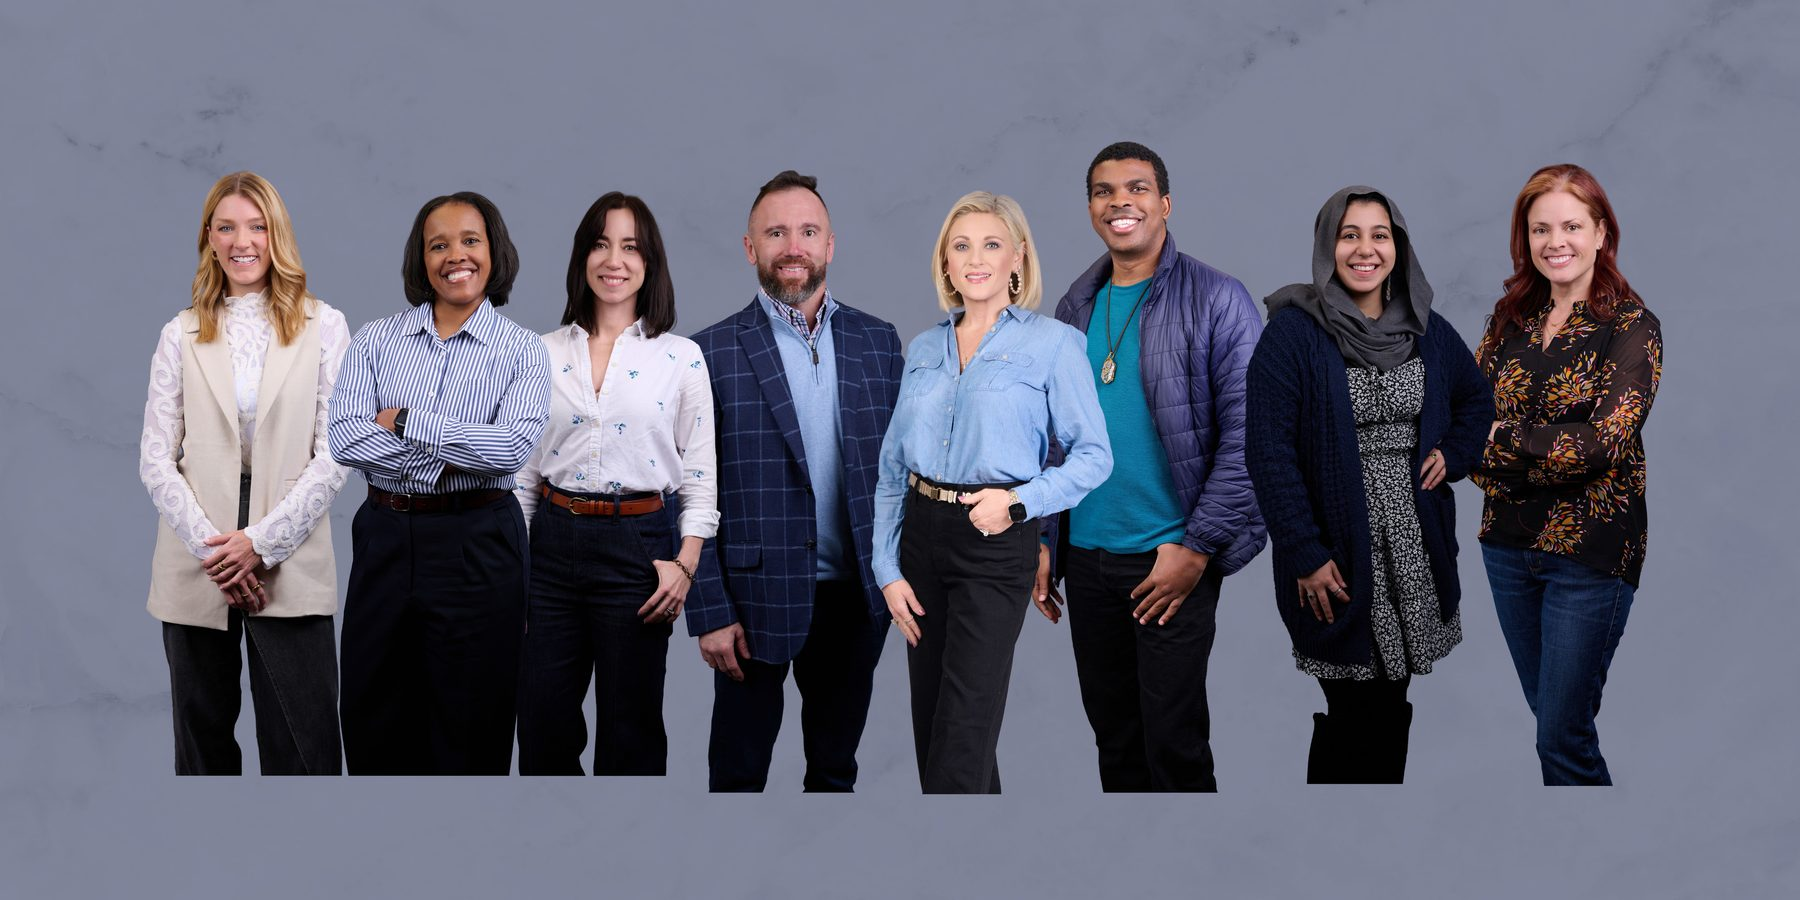
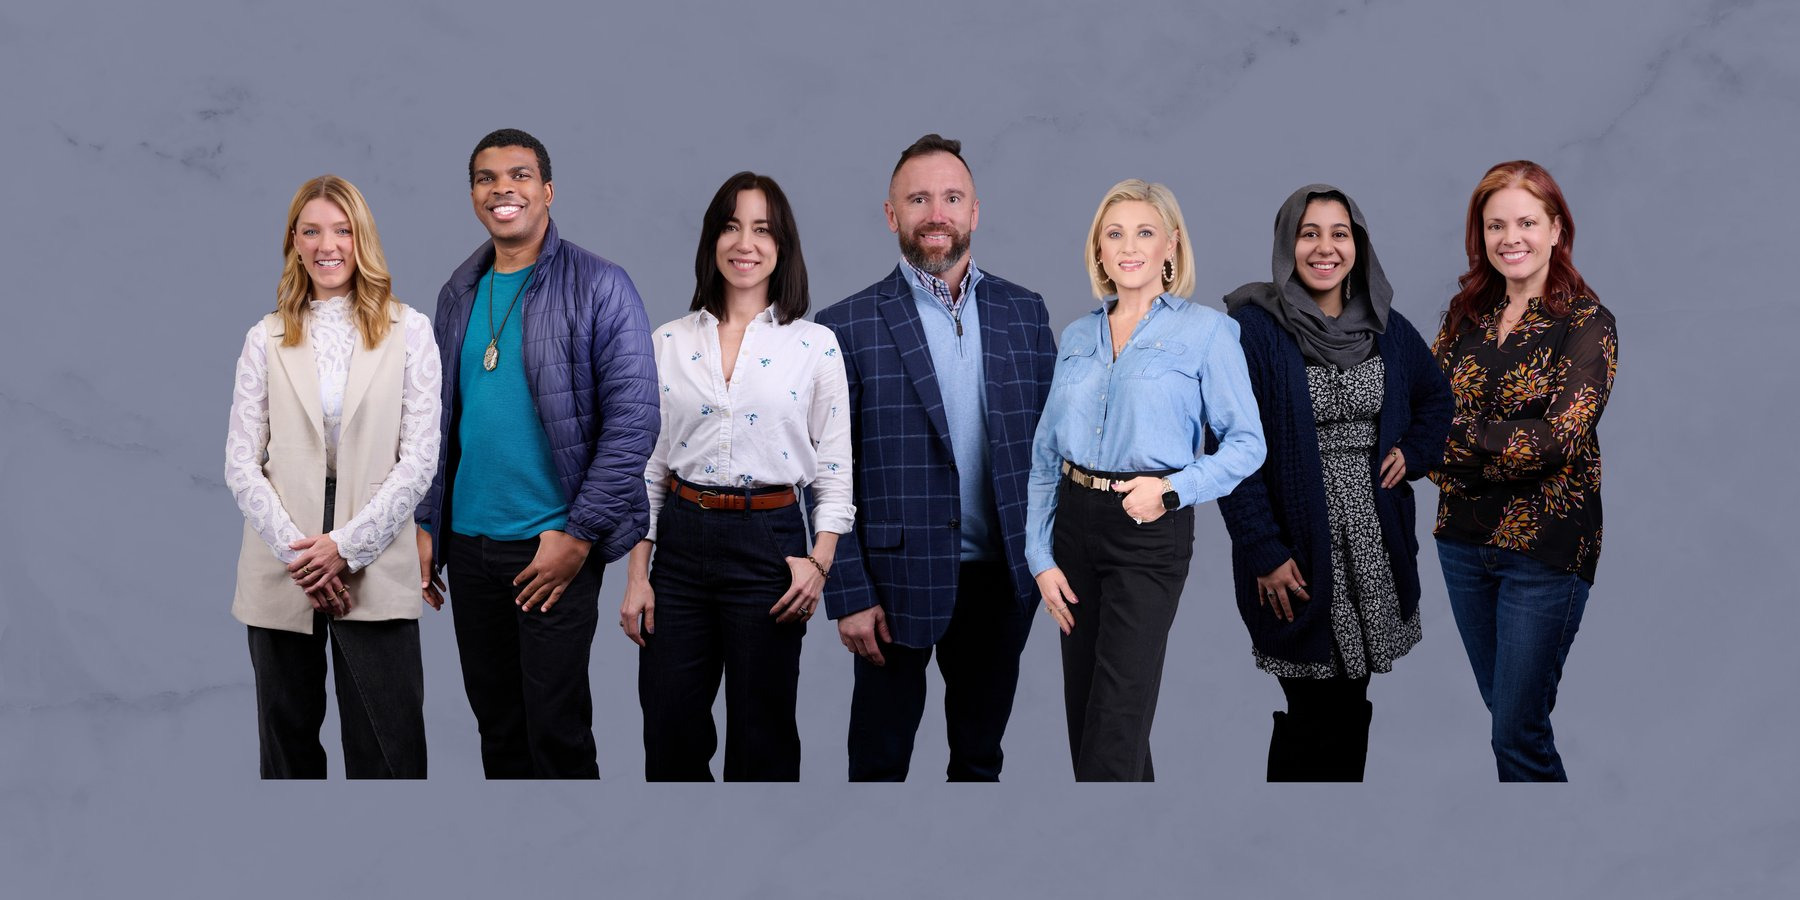
Remove Kimberly Wright from the team page
Kimberly Wright's last day was 08/28/26. Removes her card from the
leadership grid on the About page along with her headshot asset, and
replaces the About hero group photo with the updated version that no
longer includes her.

The new hero is resized to 1800x900 to match the previous file's
dimensions and re-encoded at a comparable size (175 KB vs 178 KB).
Kimberly Kirklin, a separate team member, is unchanged.

Claude-Session: https://claude.ai/code/session_01X8i4EGJyjvU38BCT9ZEtKU

diff --git a/mckenzie-site/about.html b/mckenzie-site/about.html
@@ -87,15 +87,6 @@
           </div>
         </div>
 
-        <div class="card person">
-          <div class="avatar"><img src="/images/team/kimberly-wright.jpeg" alt="Kimberly Wright headshot"></div>
-          <div class="person-body">
-            <div class="person-name">Kimberly Wright</div>
-            <span class="person-role">Director of Office Experience</span>
-            <p class="person-bio">Kimberly is joining the McKenzie Strategies team to help bridge potential and active clients to connect with their therapists. Kimberly will also be active in our company's outreach. She joins the team with two decades of wellness experience and a degree in Communications. When Kimberly is not making all of our office time brighter, she is teaching group fitness, on the soccer field sidelines cheering on her boys, and being an incredible friend, mother, wife and all around amazing human.</p>
-          </div>
-        </div>
-
       </div>
     </div>
   </section>
